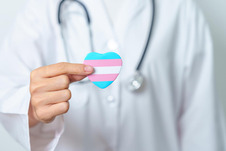
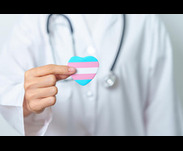
added in the pics for service match

diff --git a/src/css/Service.module.css b/src/css/Service.module.css
@@ -3,7 +3,7 @@ h2{
     font-size: 22px;
    display:inline;
     width: 10%;
-    margin: auto;
+   text-align: center;
     line-height: 30px;
     font-weight: 600;
     color:#007BFF;
@@ -26,13 +26,57 @@ h3{
 }
 
 p{
-    font-size: 12px;
+    font-size: 14px;
     font-family: inter;
     text-indent: 40px;
 }
 
-.right img {
-    margin-top: 9px; 
-    margin-left: 800px; 
+ h4 img{
+    margin-top: -800px;
+    margin-left: 700px; 
+    border: none;
+    border-radius: 15px;
+    float: inline-end;
+    
+    
+  }
+
+  h5 img{
+    margin-top: -620px; 
+    margin-left: 700px; 
+    border: none;
+    border-radius: 15px;
+    float: inline-end;
+  }
+
+  h6 img{
+    margin-top: -440px; 
+    margin-left: 700px; 
+    border: none;
+    border-radius: 15px;
+    float: inline-end;
   }
   
+  h7 img{
+    margin-top: -260px; 
+    margin-left: 700px; 
+    border: none;
+    border-radius: 15px;
+    float: inline-end;
+  }
+
+  h8 img{
+    margin-top: -80px; 
+    margin-left: 700px; 
+    border: none;
+    border-radius: 15px;
+    float: inline-end;
+  }
+
+  h9 img{
+    margin-top: 30px; 
+    margin-left: 700px; 
+    border: none;
+    border-radius: 15px;
+    float: inline-end;
+  }

diff --git a/src/pages/Services.jsx b/src/pages/Services.jsx
@@ -9,7 +9,7 @@ const Services = () => {
     <div className='bg-white'>
       <Navbar />
     
-    <h2> Type of Services </h2>
+      <h1 className='mt-20 text-center'>Type of Services </h1>
     
     <div class='right'>
     <h3> Primary Care/Provider </h3>
@@ -18,9 +18,6 @@ const Services = () => {
      <p> the Primary care/Provider near you, or </p>
      <p> online. 
     </p>
-    
-   <img src='./Primary car.jpg' alt='primary'/>
-    
     </div>
     
     <div>
@@ -63,7 +60,31 @@ const Services = () => {
       <p> therapy. Transgender care is not just </p>
       <p> about transitioning medically. </p>
     </div>
-  
+    <h4>
+   <img src='./Primary car.jpg' alt='primary'/>
+    </h4>
+
+<h5>
+<img src='./therapy.png' alt='therapy'/>
+
+</h5>
+
+<h6>
+<img src='./insurance.png' alt='therapy'/>
+
+</h6>
+
+<h7>
+  <img src='./hormone therapy.png'/>
+</h7>
+
+<h8>
+  <img src='./pharmacy.png'/>
+</h8>
+
+<h9>
+  <img src='./teens and family.jpg'/>
+</h9>
 
 <Footer />
 </div>

diff --git a/src/css/Contact.module.css b/src/css/Contact.module.css
@@ -33,6 +33,7 @@ form{
     font-weight: 600;
     color:#007BFF;
     text-align: center;
+   
 }
 
 
